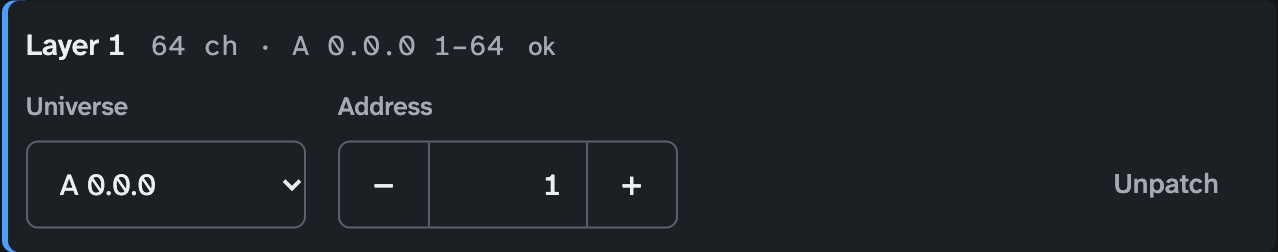
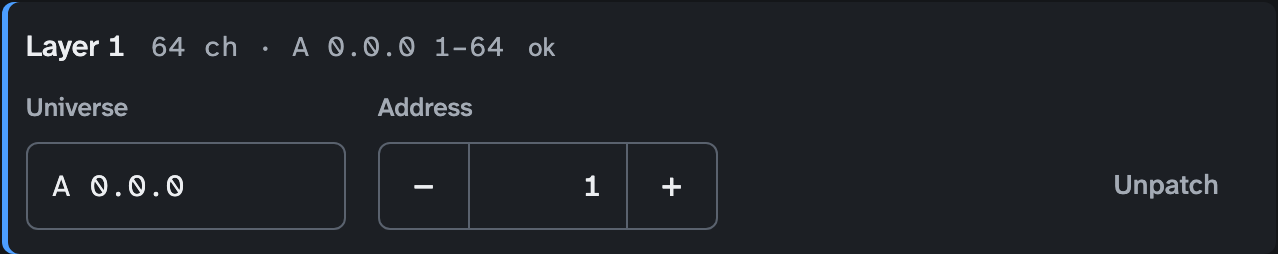
Patch screen: universe fields wide enough for A 127.15.15; guide pictures retaken

diff --git a/web/src/components/PatchGroup.svelte b/web/src/components/PatchGroup.svelte
@@ -273,7 +273,7 @@
   .head h2 { margin-right: 4px; }
   .count { display: inline-flex; align-items: center; justify-content: center; min-width: 48px; border-left: 1px solid var(--line-strong); border-right: 1px solid var(--line-strong); font-size: 15px; }
   .stepper button:disabled { color: var(--text-3); cursor: default; }
-  .block .universe { width: 110px; text-align: left; }
+  .block .universe { width: 160px; text-align: left; }  /* A 127.15.15 needs 148 px */
   .address { width: 84px; }
   .full { flex-basis: 100%; margin: 0; }
   .warn, .tone-warn { color: var(--yellow); }

diff --git a/web/src/components/PatchInspector.svelte b/web/src/components/PatchInspector.svelte
@@ -125,6 +125,6 @@
   .tone-warn { color: var(--yellow); }
   .tone-bad { color: var(--red); }
   .fields { display: flex; flex-wrap: wrap; align-items: flex-end; gap: 16px; }
-  .fields .universe { width: 140px; text-align: left; }
+  .fields .universe { width: 160px; text-align: left; }  /* A 127.15.15 needs 148 px */
   .stepper button:disabled, .stepper input:disabled { color: var(--text-3); cursor: default; }
 </style>
